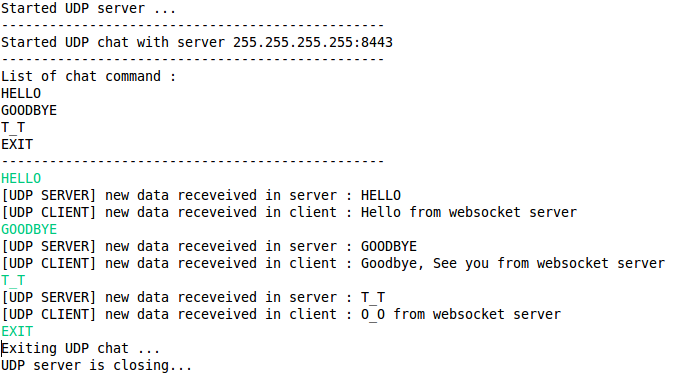
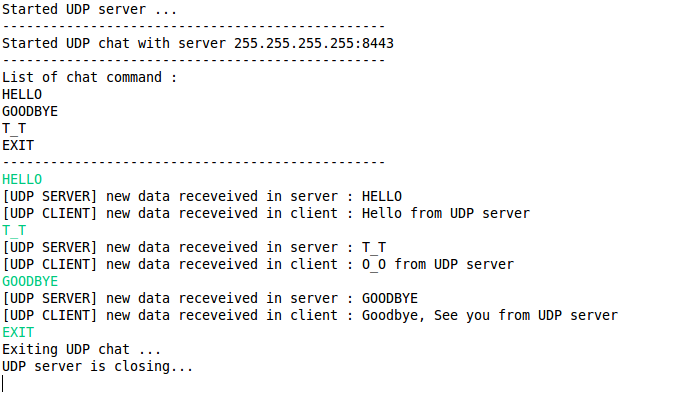
correct typo in java udp socket

diff --git a/udp/src/fr/bmartel/network/LaunchUdpSocket.java b/udp/src/fr/bmartel/network/LaunchUdpSocket.java
@@ -74,16 +74,16 @@ public class LaunchUdpSocket {
 
 				switch (dataStr) {
 				case "HELLO":
-					server.write("Hello from websocket server".getBytes(),
+					server.write("Hello from UDP server".getBytes(),
 							clientAddress, clientPort);
 					break;
 				case "GOODBYE":
 					server.write(
-							"Goodbye, See you from websocket server".getBytes(),
+							"Goodbye, See you from UDP server".getBytes(),
 							clientAddress, clientPort);
 					break;
 				case "T_T":
-					server.write("O_O from websocket server".getBytes(),
+					server.write("O_O from UDP server".getBytes(),
 							clientAddress, clientPort);
 					break;
 				}
